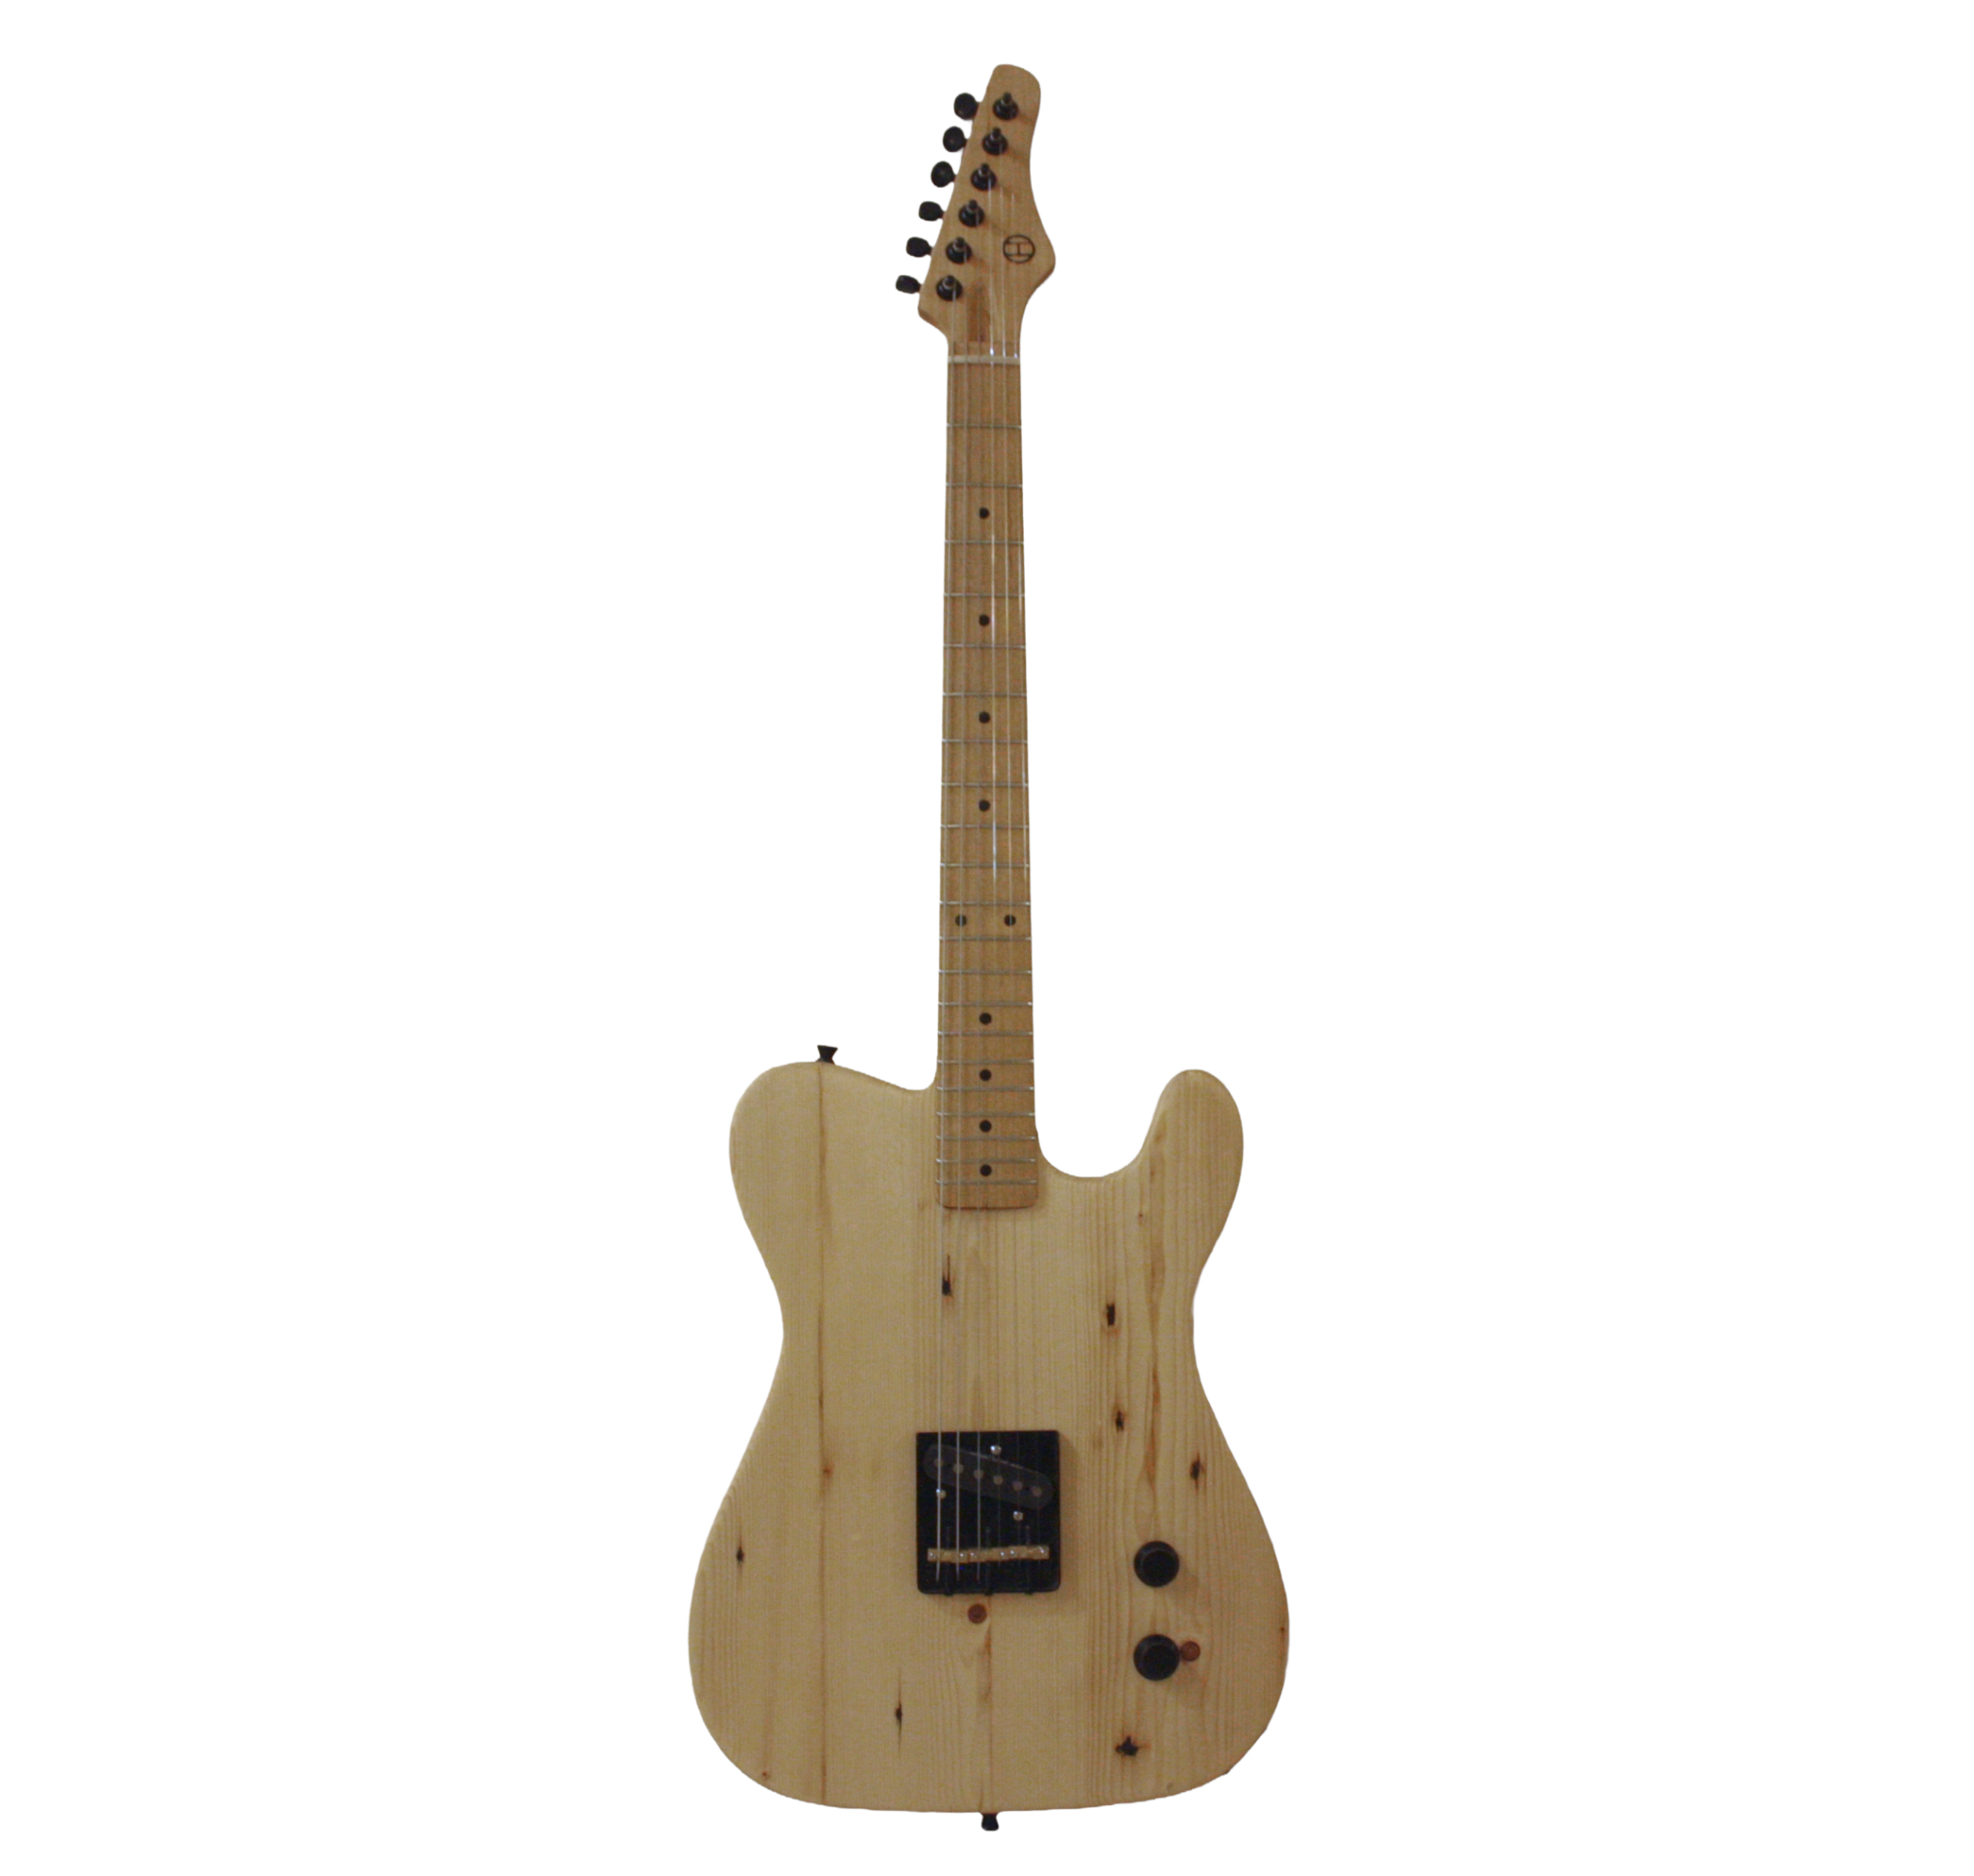
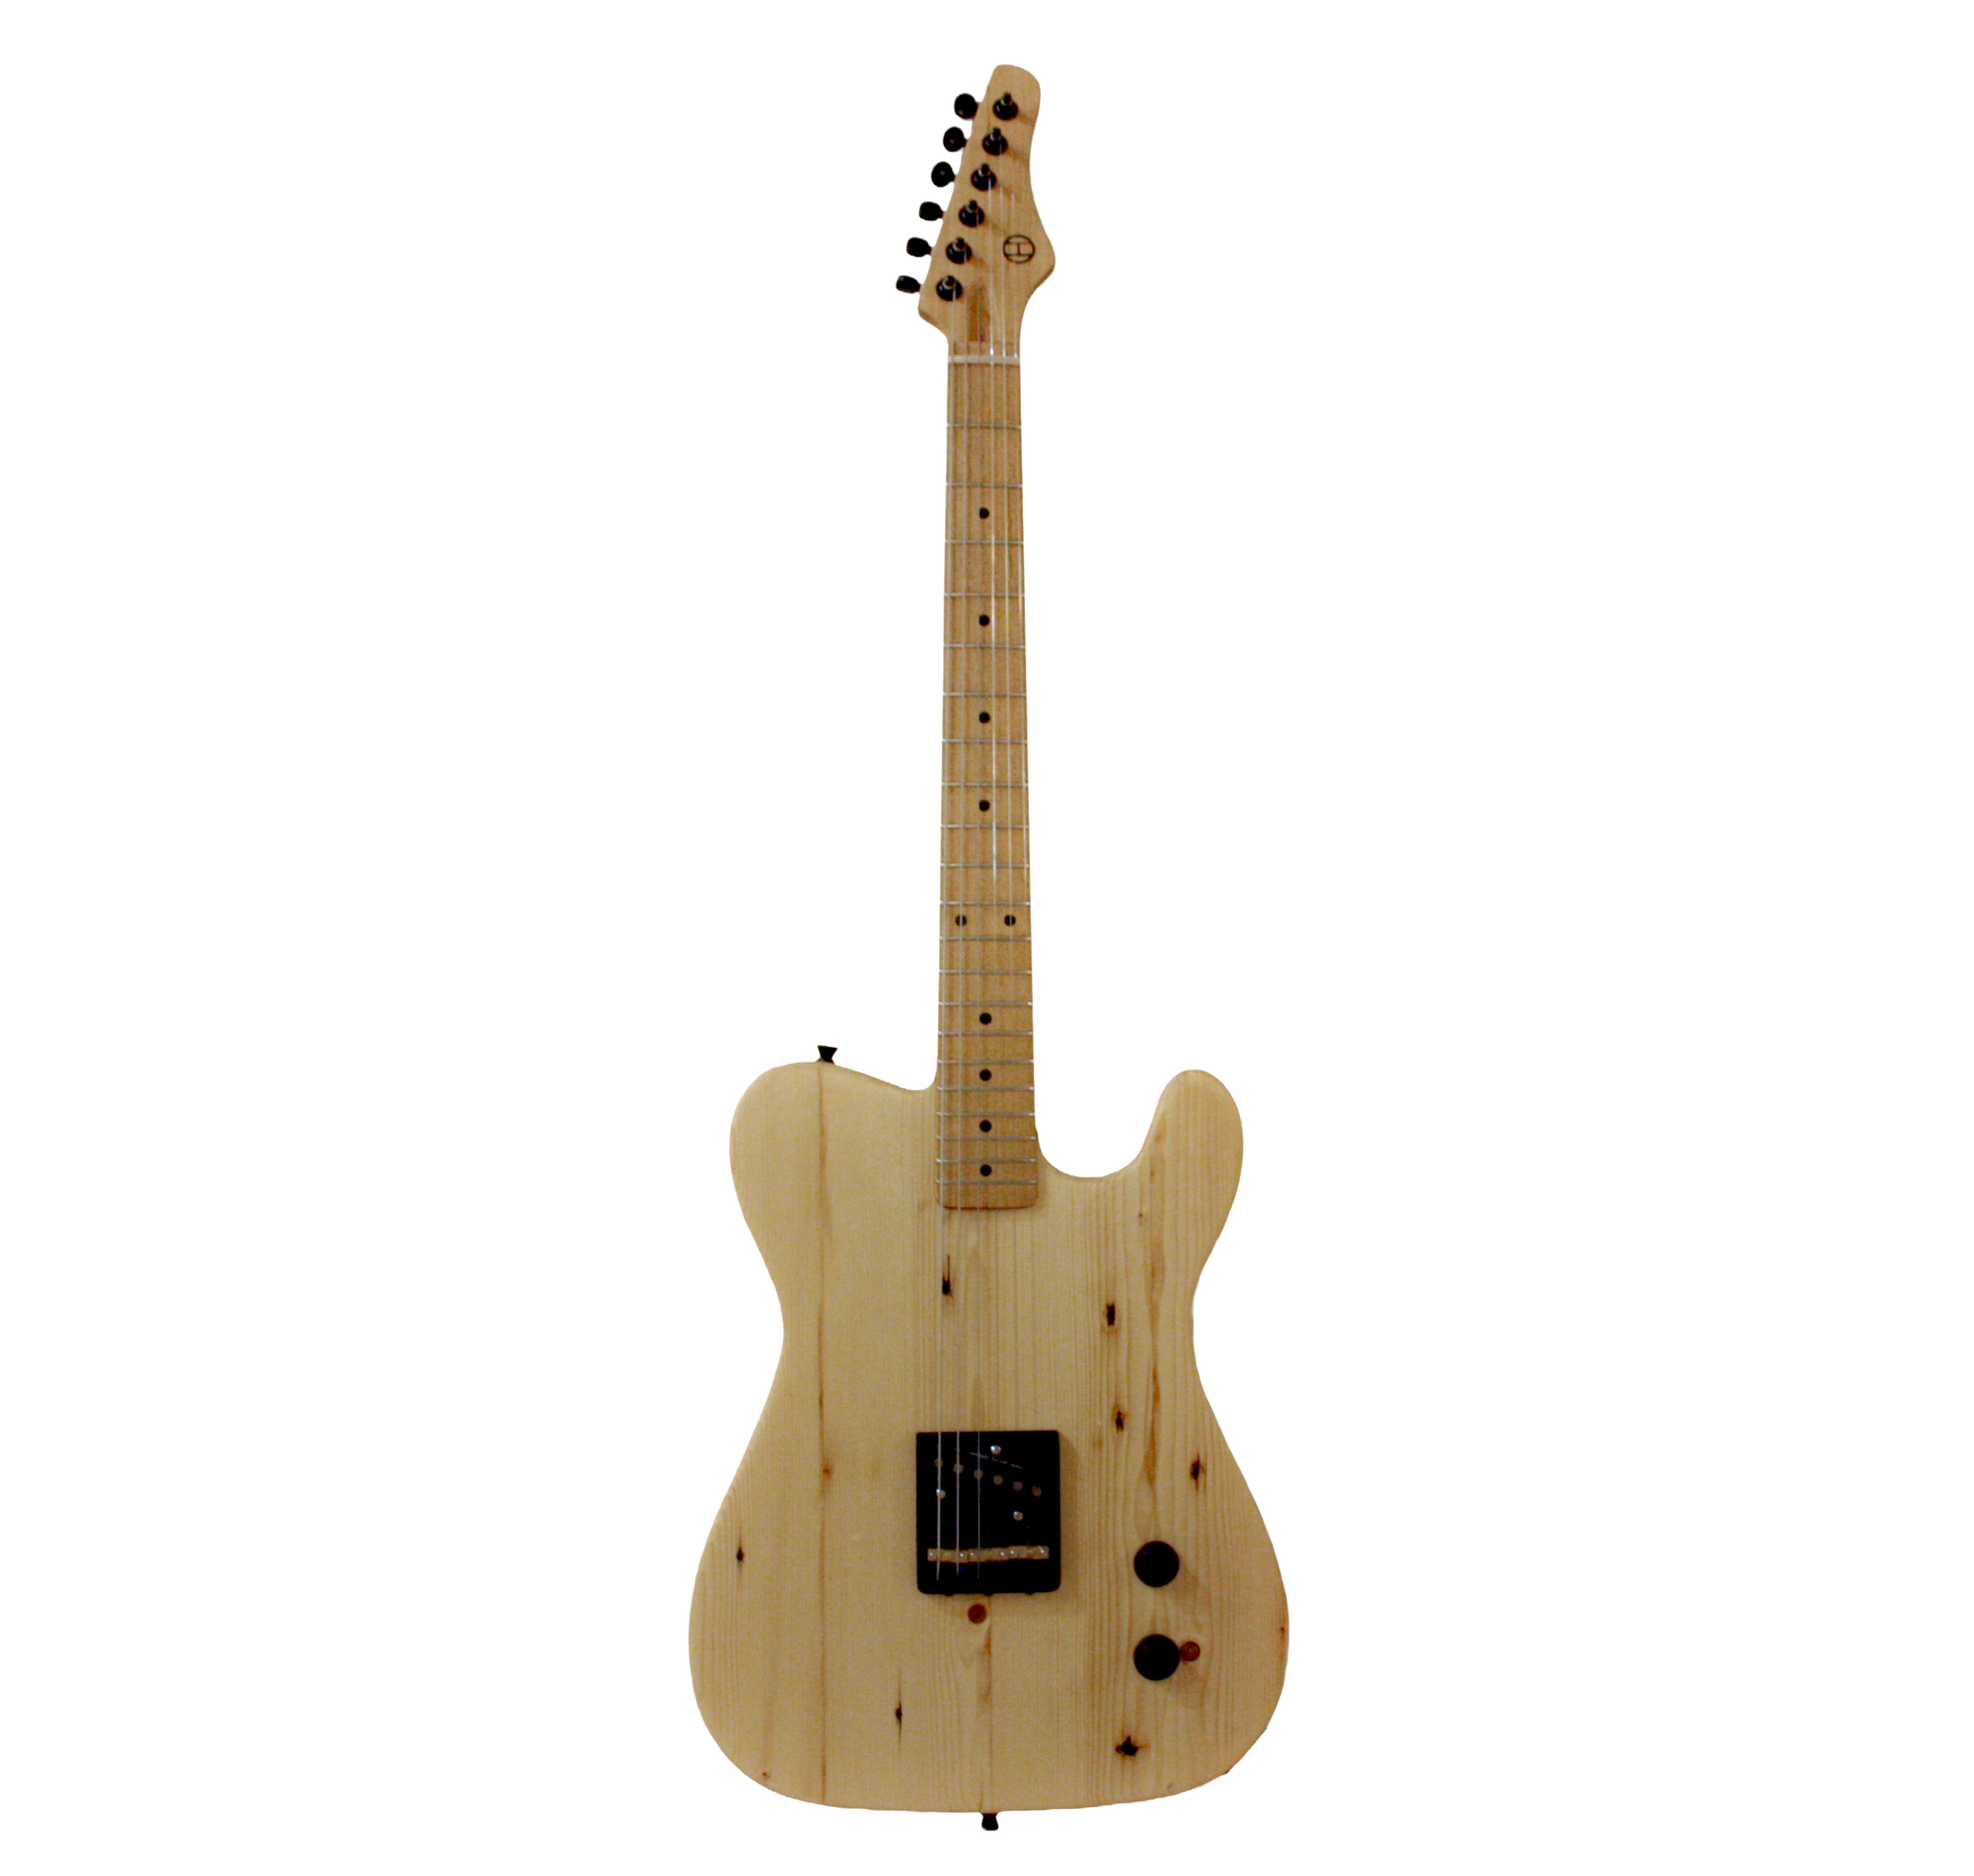
Fixed description typo

diff --git a/guitars/oht-26001.html b/guitars/oht-26001.html
@@ -70,8 +70,7 @@
             </div>
 
             <div class="listing-description">
-                <p>Add your description here — construction details, tonal character, inspiration behind the build, anything you want a buyer to know.A super fun electric guitar,
-                     featuring a solid cypress body, a pau marfim neck, and chrome hardware. Finished with a natural oil finish to highlight the wood grain and feel.  
+                <p>A super fun electric guitar featuring a solid cypress body, a pau marfim neck, and chrome hardware. Finished with a natural oil finish to highlight the wood grain and feel.  
                 </p>
             </div>
 